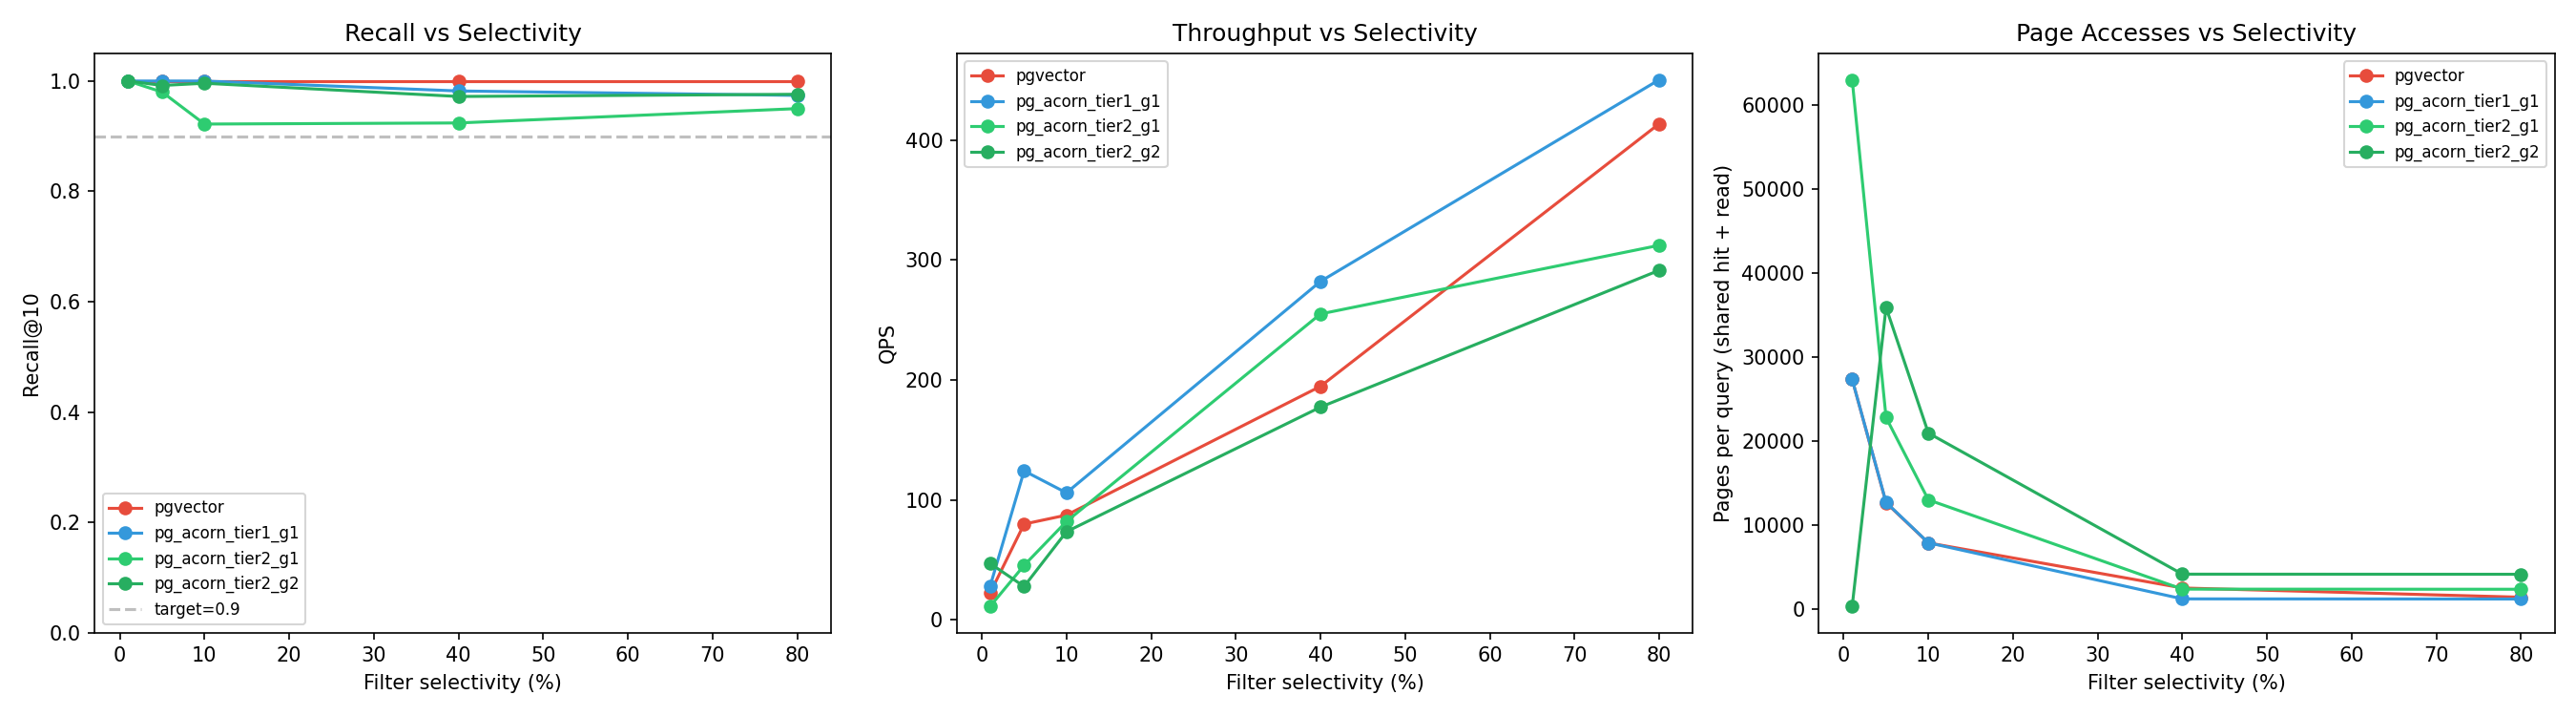
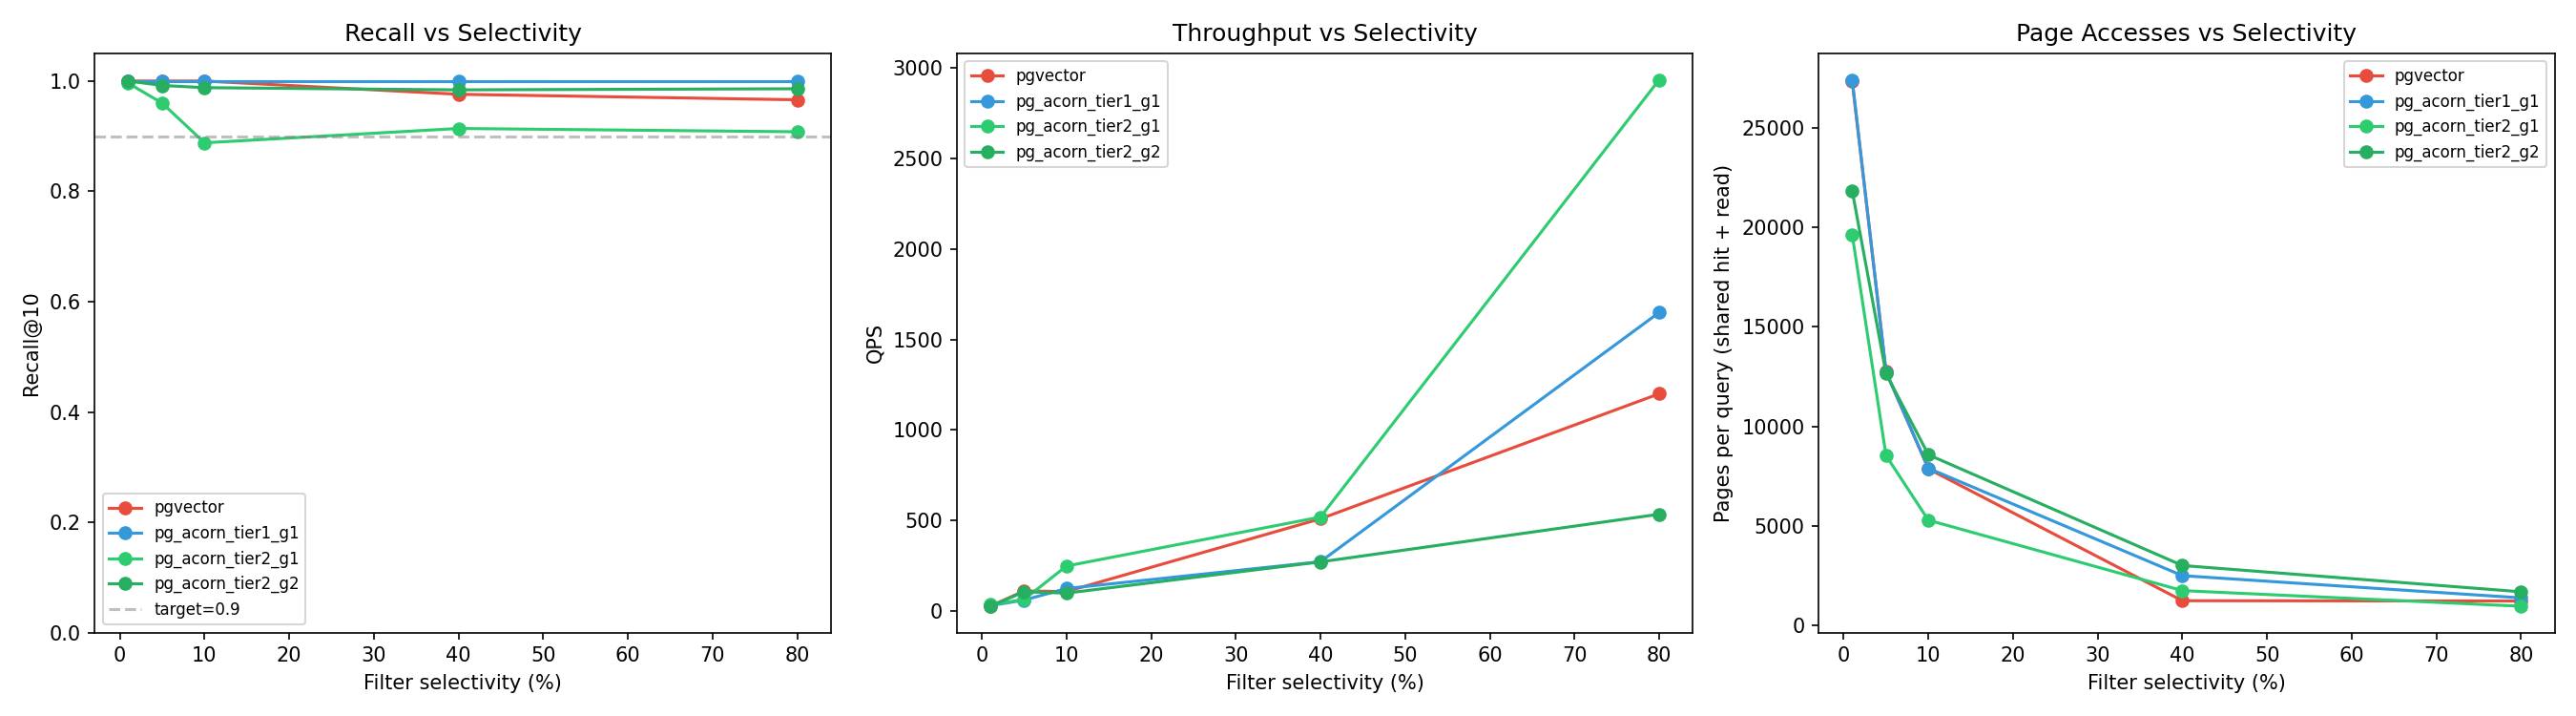
bench(results): resumable scan rerun + RESULTS.md Run 4
Tier 2 g1 @ 1% selectivity: 63000 -> 19642 pages/query (3.2x), 11 -> 32 qps,
recall 1.000 -> 0.996. Streaming frontier removes the ef-doubling re-traversal
blowup; cost becomes predictable (monotone in selectivity) rather than bimodal.
Honest caveat documented: g2 @ 1% rises 371 -> 21847 (old batch got lucky with
a single ef=40 round). All gated regression + isolation tests pass.

diff --git a/bench/RESULTS.md b/bench/RESULTS.md
@@ -1,5 +1,65 @@
 # pg_acorn Benchmark — Scenario A (Filter Selectivity Sweep)
 
+## Run 4: Resumable Streaming Scan (n=10,000)
+
+Replaces Tier 2's ef-doubling batch loop (which re-ran the full HNSW traversal
+from the entry point on every ef expansion) with a **resumable streaming
+frontier** (`acorn_scan.c` `acorn_stream_*`): each graph node is expanded and
+emitted at most once, so the executor pulling more results never restarts the
+traversal. Tier 1's batch path (`acorn_scan_execute`) is unchanged.
+
+### Pages per query — batch (Run 3) vs resumable (Run 4)
+
+| Target | 1% | 5% | 10% | 40% | 80% |
+|--------|----|----|-----|-----|-----|
+| Tier 2 g1 — batch | 63,000 | 22,820 | 13,027 | 2,403 | 2,389 |
+| **Tier 2 g1 — resumable** | **19,642** | **8,536** | **5,295** | **1,758** | **974** |
+| Tier 2 g2 — batch | 371 | 35,922 | 20,970 | 4,186 | 4,172 |
+| **Tier 2 g2 — resumable** | 21,847 | **12,652** | **8,581** | **3,018** | **1,698** |
+
+### Recall@10 / QPS (resumable)
+
+| Target | 1% | 5% | 10% | 40% | 80% |
+|--------|----|----|-----|-----|-----|
+| Tier 2 g1 recall | 0.996 | 0.960 | 0.888 | 0.914 | 0.908 |
+| Tier 2 g1 qps | 32 | 62 | 246 | 518 | 2936 |
+| Tier 2 g2 recall | 1.000 | 0.992 | 0.988 | 0.984 | 0.986 |
+| Tier 2 g2 qps | 24 | 104 | 97 | 270 | 533 |
+
+### Interpretation — a predictability win, not a uniform speedup
+
+- **Eliminates the worst-case re-traversal blowup.** Tier 2 g1 at 1% — the
+  pathological case that motivated this work — drops from 63,000 to 19,642 pages
+  (3.2x) and 11 to 32 qps (2.9x), with recall essentially unchanged (1.000 →
+  0.996). Across g1 the streaming scan touches 2–4x fewer pages everywhere.
+- **It is not uniformly cheaper.** Tier 2 g2 at 1% rises from 371 to 21,847
+  pages. The 371 was a best-case of the old all-or-nothing batch: a single
+  ef=40 round happened to cover the 1%-filter matches, so no doubling occurred.
+  The streaming scan instead expands consistently until the executor's LIMIT is
+  satisfied, so it cannot exploit that luck — but it also cannot suffer the g1
+  blowup. Net: **cost becomes predictable** (monotone in selectivity) rather
+  than bimodal (lucky-cheap vs doubling-explosion).
+- **Recall holds within build-seed variance.** Levels are assigned from
+  `MyProcPid`, so each build yields a slightly different graph; the few-point
+  differences vs Run 3 are within that noise. All gated tests pass:
+  `no_regression`, `recall_filter` (>=0.9 at 10/40/80%), `recall_gamma`,
+  `recall_insert`, plus both isolation specs.
+- **Code is simpler:** `acorn_am.c` loses ~140 lines (no ef-doubling, repalloc,
+  or cross-round TID dedup — streaming emits each node once by construction).
+
+**Future refinement:** a small ef-floor / first-batch hybrid could recover the
+g2-style lucky-cheap case while keeping the worst-case bound.
+
+### Reproduce
+
+```sh
+python3 bench/run_bench.py --scenario a \
+    --dsn "postgresql://postgres@localhost/postgres" \
+    --n-vectors 10000 --dim 64 --n-queries 50 --output bench/results.json
+```
+
+---
+
 ## Run 3: Page-I/O Baseline (n=10,000)
 
 Adds **`pages_per_query`** (shared hit + read logical page accesses) measured via

diff --git a/bench/report/report.md b/bench/report/report.md
@@ -4,20 +4,20 @@
 
 Target                        1%      5%     10%     40%     80%
 ----------------------------------------------------------------
-pgvector                  1.000  1.000  1.000  1.000  1.000
-pg_acorn_tier1_g1         1.000  1.000  1.000  0.982  0.974
-pg_acorn_tier2_g1         1.000  0.980  0.922  0.924  0.950
-pg_acorn_tier2_g2         1.000  0.992  0.996  0.972  0.976
+pgvector                  1.000  1.000  1.000  0.976  0.966
+pg_acorn_tier1_g1         1.000  1.000  1.000  1.000  1.000
+pg_acorn_tier2_g1         0.996  0.960  0.888  0.914  0.908
+pg_acorn_tier2_g2         1.000  0.992  0.988  0.984  0.986
 
 
 ## Scenario A: Page Accesses per Query (shared hit + read)
 
 Target                         1%       5%      10%      40%      80%
 ---------------------------------------------------------------------
-pgvector                    27353    12679     7905     2541     1441
-pg_acorn_tier1_g1           27349    12726     7919     1244     1230
-pg_acorn_tier2_g1           63000    22820    13027     2403     2389
-pg_acorn_tier2_g2             371    35922    20970     4186     4172
+pgvector                    27359    12747     7872     1251     1237
+pg_acorn_tier1_g1           27410    12733     7901     2508     1393
+pg_acorn_tier2_g1           19642     8536     5295     1758      974
+pg_acorn_tier2_g2           21847    12652     8581     3018     1698
 
 
 ## Scenario B: Post-Filter Recall (pgvector CTE workaround)